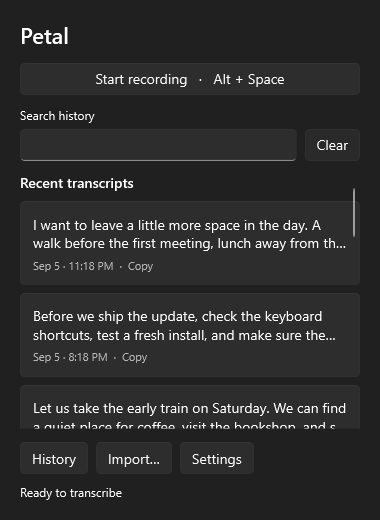
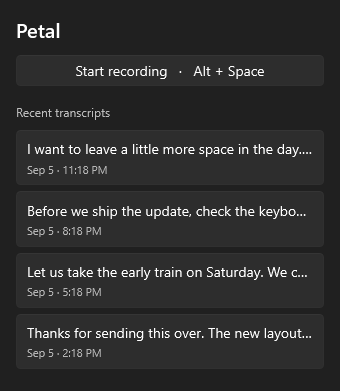
Simplify tray panel and center empty history

diff --git a/src/Petal.Windows/TrayPalette.cs b/src/Petal.Windows/TrayPalette.cs
@@ -1,7 +1,6 @@
 using System.Windows;
 using System.Windows.Controls;
 using System.Windows.Input;
-using System.Windows.Media;
 using System.Windows.Shell;
 
 namespace Petal.Windows;
@@ -12,69 +11,71 @@ internal sealed class TrayPalette : Window
     IntPtr target;
     internal IntPtr RecordingTarget => target;
     readonly StackPanel results = new();
-    readonly TextBox search = new() { Margin = new Thickness(0, 16, 0, 12) };
     readonly Button record = new() { HorizontalAlignment = HorizontalAlignment.Stretch };
-    readonly TextBlock feedback = new() { FontSize = 12, Margin = new Thickness(0, 10, 0, 0) };
+
     public TrayPalette(AppController app)
     {
         this.app = app;
-        Title = "Petal palette"; Width = 380; Height = 520; WindowStyle = WindowStyle.None;
-        ResizeMode = ResizeMode.NoResize; ShowInTaskbar = false; Topmost = true;
+        Title = "Petal palette"; Width = 340; SizeToContent = SizeToContent.Height;
+        WindowStyle = WindowStyle.None; ResizeMode = ResizeMode.NoResize;
+        ShowInTaskbar = false; Topmost = true;
         WindowChrome.SetWindowChrome(this, new WindowChrome { CaptionHeight = 0, ResizeBorderThickness = new Thickness(0), GlassFrameThickness = new Thickness(-1) });
-        var root = new Grid { Margin = new Thickness(20) };
-        root.RowDefinitions.Add(new RowDefinition { Height = GridLength.Auto }); root.RowDefinitions.Add(new RowDefinition()); root.RowDefinitions.Add(new RowDefinition { Height = GridLength.Auto });
-        var header = new StackPanel();
-        header.Children.Add(new TextBlock { Text = "Petal", FontSize = 22, FontWeight = FontWeights.SemiBold, Margin = new Thickness(0, 0, 0, 14) });
-        record.Click += (_, _) => { Hide(); _ = app.ToggleRecording(target); }; header.Children.Add(record);
-        search.ToolTip = "Search transcripts"; System.Windows.Automation.AutomationProperties.SetName(search, "Search transcripts");
-        header.Children.Add(new TextBlock { Text = "Search history", FontSize = 12, Margin = new Thickness(0, 12, 0, 0) });
-        search.Margin = new Thickness(0, 6, 0, 12);
-        var searchRow = new DockPanel(); var clear = new Button { Content = "Clear", Margin = new Thickness(8, 6, 0, 12), IsEnabled = false };
-        clear.Click += (_, _) => { search.Clear(); search.Focus(); }; search.TextChanged += (_, _) => clear.IsEnabled = search.Text.Length > 0;
-        DockPanel.SetDock(clear, Dock.Right); searchRow.Children.Add(clear); searchRow.Children.Add(search); header.Children.Add(searchRow); root.Children.Add(header);
-        var scroll = new ScrollViewer { Content = results, VerticalScrollBarVisibility = ScrollBarVisibility.Auto }; Grid.SetRow(scroll, 1); root.Children.Add(scroll);
-        var footer = new StackPanel { Margin = new Thickness(0, 14, 0, 0) };
-        var actions = new StackPanel { Orientation = Orientation.Horizontal };
-        void Add(string label, Action action) { var b = new Button { Content = label, Margin = new Thickness(0, 0, 8, 0) }; b.Click += (_, _) => { Hide(); action(); }; actions.Children.Add(b); }
-        Add("History", () => app.ShowSettings("History")); Add("Import…", app.ImportFile); Add("Settings", () => app.ShowSettings());
-        footer.Children.Add(actions); footer.Children.Add(feedback); Grid.SetRow(footer, 2); root.Children.Add(footer); Content = root;
+        var root = new StackPanel();
+        root.Children.Add(new TextBlock { Text = "Petal", FontSize = 20, FontWeight = FontWeights.SemiBold, Margin = new Thickness(0, 0, 0, 12) });
+        record.Click += (_, _) => { Hide(); _ = app.ToggleRecording(target); };
+        root.Children.Add(record);
+        root.Children.Add(new TextBlock { Text = "Recent transcripts", FontSize = 12, Margin = new Thickness(0, 18, 0, 10), Opacity = .7 });
+        root.Children.Add(results);
+        Content = new Border { Padding = new Thickness(16), Child = root };
         SetResourceReference(BackgroundProperty, "SolidBackgroundFillColorBaseBrush");
         SourceInitialized += (_, _) => Native.Acrylic(this);
         Deactivated += (_, _) => Hide();
         PreviewKeyDown += (_, e) => { if (e.Key == Key.Escape) { Hide(); e.Handled = true; } };
-        search.TextChanged += (_, _) => Refresh();
-        app.Changed += () => { if (IsVisible) Refresh(); };
+        app.Changed += () => { if (IsVisible) { Refresh(); PositionNearTray(); } };
     }
+
     void Refresh()
     {
         record.Content = (app.Phase == "recording" ? "Finish recording" : "Start recording") + "   ·   " + app.Storage.Preferences.Shortcut;
         record.IsEnabled = !app.Busy || app.Phase == "recording";
-        feedback.Text = app.Status; results.Children.Clear();
-        var matches = app.Storage.History.Where(x => Petal.Core.TranscriptSearch.Matches(x, search.Text)).ToList();
-        var entries = matches.Take(20).ToList();
-        results.Children.Add(new TextBlock { Text = string.IsNullOrWhiteSpace(search.Text) ? "Recent transcripts" : $"{matches.Count} results" + (matches.Count > 20 ? " (first 20 shown)" : ""), FontWeight = FontWeights.SemiBold, Margin = new Thickness(0, 0, 0, 10) });
-        if (entries.Count == 0) results.Children.Add(new TextBlock { Text = string.IsNullOrWhiteSpace(search.Text) ? "No recordings yet." : "No matches. Try fewer words.", Margin = new Thickness(0, 16, 0, 16) });
+        results.Children.Clear();
+        var entries = app.Storage.History.OrderByDescending(x => x.Timestamp).Take(4).ToList();
+        if (entries.Count == 0)
+            results.Children.Add(new TextBlock { Text = "No recordings yet", HorizontalAlignment = HorizontalAlignment.Center, Margin = new Thickness(0, 24, 0, 28), Opacity = .7 });
         foreach (var entry in entries)
         {
             var content = new StackPanel();
-            content.Children.Add(new TextBlock { Text = entry.Text, MaxHeight = 42, TextTrimming = TextTrimming.CharacterEllipsis });
-            content.Children.Add(new TextBlock { Text = entry.Timestamp.ToLocalTime().ToString("MMM d · h:mm tt") + "  ·  Copy", FontSize = 11, Margin = new Thickness(0, 6, 0, 0), Opacity = .65 });
-            var button = new Button { Content = content, HorizontalAlignment = HorizontalAlignment.Stretch, HorizontalContentAlignment = HorizontalAlignment.Stretch, Margin = new Thickness(0, 0, 0, 8), Padding = new Thickness(12) };
+            content.Children.Add(new TextBlock { Text = entry.Text.ReplaceLineEndings(" "), TextTrimming = TextTrimming.CharacterEllipsis, TextWrapping = TextWrapping.NoWrap });
+            var caption = new TextBlock { Text = entry.Timestamp.ToLocalTime().ToString("MMM d · h:mm tt"), FontSize = 11, Margin = new Thickness(0, 4, 0, 0), Opacity = .65 };
+            content.Children.Add(caption);
+            var button = new Button { Content = content, ToolTip = "Copy transcript", HorizontalAlignment = HorizontalAlignment.Stretch, HorizontalContentAlignment = HorizontalAlignment.Stretch, Margin = new Thickness(0, 0, 0, 6), Padding = new Thickness(10, 8, 10, 8) };
             System.Windows.Automation.AutomationProperties.SetName(button, "Copy transcript: " + entry.Text);
-            button.Click += (_, _) => app.Copy(entry.Text); results.Children.Add(button);
+            button.Click += (_, _) => { app.Copy(entry.Text); Hide(); };
+            results.Children.Add(button);
         }
     }
+
+    void PositionNearTray()
+    {
+        UpdateLayout();
+        var area = SystemParameters.WorkArea;
+        Left = area.Right - ActualWidth - 12;
+        Top = area.Bottom - ActualHeight - 12;
+    }
+
     public void Open()
     {
-        target = Native.GetForegroundWindow(); Refresh(); var area = SystemParameters.WorkArea; Left = area.Right - Width - 12; Top = area.Bottom - Height - 12;
-        Show(); Activate(); search.Focus();
+        target = Native.GetForegroundWindow(); Refresh();
+        Show(); PositionNearTray(); Activate(); record.Focus();
     }
+
     internal void Capture(string directory)
     {
         Refresh(); Show(); UpdateLayout();
-        SettingsWindow.Capture((FrameworkElement)Content, System.IO.Path.Combine(directory, "tray-palette.png"), 380, 520);
-        search.Text = "__petal_no_matching_transcript__";
-        if (results.Children.OfType<Button>().Any()) throw new InvalidOperationException("Palette search failed to filter transcripts.");
-        search.Clear(); Hide();
+        if (results.Children.OfType<Button>().Count() != Math.Min(4, app.Storage.History.Count))
+            throw new InvalidOperationException("Palette must show at most four recent transcripts.");
+        var root = (FrameworkElement)Content;
+        SettingsWindow.Capture(root, System.IO.Path.Combine(directory, "tray-palette.png"), (int)root.ActualWidth, (int)root.ActualHeight);
+        Hide();
     }
 }

diff --git a/src/Petal.Windows/SettingsWindow.cs b/src/Petal.Windows/SettingsWindow.cs
@@ -31,6 +31,9 @@ public sealed class SettingsWindow : Window
     ListBox? historyList;
     TextBox? searchBox;
     StackPanel? historyDetail;
+    Grid? historySplit;
+    FrameworkElement? historySearch;
+    StackPanel? historyEmpty;
     Button? playbackButton;
     readonly System.Windows.Threading.DispatcherTimer playbackTimer = new() { Interval = TimeSpan.FromMilliseconds(250) };
     Slider? playbackPosition;
@@ -221,6 +224,7 @@ public sealed class SettingsWindow : Window
         search.PreviewKeyDown += (_, e) => { if (e.Key == System.Windows.Input.Key.Escape) { search.Clear(); e.Handled = true; } };
         searchRow.Children.Add(search); layout.Children.Add(searchRow);
         var split = new Grid(); split.ColumnDefinitions.Add(new ColumnDefinition { Width = new GridLength(224) }); split.ColumnDefinitions.Add(new ColumnDefinition { Width = new GridLength(12) }); split.ColumnDefinitions.Add(new ColumnDefinition());
+        historySplit = split; historySearch = searchRow;
         historyList = new ListBox { BorderThickness = new Thickness(0), Background = Brushes.Transparent, HorizontalContentAlignment = HorizontalAlignment.Stretch, Margin = new Thickness(5), Padding = new Thickness(0) };
         historyList.SelectionChanged += (_, _) => { if (!filteringHistory) ShowTranscript((historyList.SelectedItem as ListBoxItem)?.Tag as Transcript); };
         split.Children.Add(Surface(historyList));
@@ -228,6 +232,8 @@ public sealed class SettingsWindow : Window
         var detailScroll = new ScrollViewer { Content = historyDetail, VerticalScrollBarVisibility = ScrollBarVisibility.Auto, HorizontalScrollBarVisibility = ScrollBarVisibility.Disabled };
         var detailBorder = Surface(detailScroll); Grid.SetColumn(detailBorder, 2); split.Children.Add(detailBorder);
         Grid.SetRow(split, 1); layout.Children.Add(split); pageHost.Content = layout;
+        historyEmpty = new StackPanel { HorizontalAlignment = HorizontalAlignment.Center, VerticalAlignment = VerticalAlignment.Center, Visibility = Visibility.Collapsed };
+        Grid.SetRow(historyEmpty, 1); layout.Children.Add(historyEmpty);
         search.TextChanged += (_, _) => { historyQuery = search.Text; clear.IsEnabled = search.Text.Length > 0; searchDelay.Stop(); searchDelay.Start(); }; clear.IsEnabled = search.Text.Length > 0;
         searchBox = search; PopulateHistory();
     }
@@ -248,6 +254,22 @@ public sealed class SettingsWindow : Window
         if (historyList.SelectedItem == null && historyList.Items.Count > 0) historyList.SelectedIndex = 0;
         filteringHistory = false;
         var next = (historyList.SelectedItem as ListBoxItem)?.Tag as Transcript;
+        bool empty = historyList.Items.Count == 0;
+        historySplit!.Visibility = empty ? Visibility.Collapsed : Visibility.Visible;
+        historySearch!.Visibility = app.Storage.History.Count == 0 ? Visibility.Collapsed : Visibility.Visible;
+        historyEmpty!.Visibility = empty ? Visibility.Visible : Visibility.Collapsed;
+        historyEmpty.Children.Clear();
+        if (empty)
+        {
+            bool noRecordings = app.Storage.History.Count == 0;
+            var icon = Icons.Image(noRecordings ? "audio-lines" : "search", 36, WindowsTheme.Secondary);
+            icon.HorizontalAlignment = HorizontalAlignment.Center; icon.Margin = new Thickness(0, 0, 0, 14);
+            historyEmpty.Children.Add(icon);
+            var title = Text(noRecordings ? "No recordings yet" : "No matching recordings", 18);
+            title.TextAlignment = TextAlignment.Center; historyEmpty.Children.Add(title);
+            var hint = Text(noRecordings ? "Your recordings will appear here." : "Try fewer words or clear the search.", 12, "secondary");
+            hint.TextAlignment = TextAlignment.Center; hint.Margin = new Thickness(0, 6, 0, 0); historyEmpty.Children.Add(hint);
+        }
         if (next?.Id != selected?.Id || next == null) ShowTranscript(next);
     }
     ContextMenu TranscriptMenu(Transcript item)
@@ -270,12 +292,7 @@ public sealed class SettingsWindow : Window
     void ShowTranscript(Transcript? item)
     {
         StopPlayback(); if (historyDetail == null) return; historyDetail.Children.Clear();
-        if (item == null)
-        {
-            var icon = Icons.Image(historyQuery.Length == 0 ? "audio-lines" : "search", 36, WindowsTheme.Secondary); icon.Margin = new Thickness(0, 70, 0, 14); historyDetail.Children.Add(icon);
-            historyDetail.Children.Add(Text(historyQuery.Length == 0 ? "No recordings yet" : "No matching recordings", 18));
-            historyDetail.Children.Add(Text(string.IsNullOrWhiteSpace(historyQuery) ? "Your recordings will appear here." : "Try fewer words or clear the search.", 12, "secondary")); return;
-        }
+        if (item == null) return;
         var toolbar = new DockPanel { Margin = new Thickness(0, 0, 0, 12) };
         var more = ActionButton("More", () => { }); more.ContextMenu = TranscriptMenu(item); more.Click += (_, _) => { more.ContextMenu = TranscriptMenu(item); more.ContextMenu.PlacementTarget = more; more.ContextMenu.Placement = PlacementMode.Bottom; more.ContextMenu.IsOpen = true; }; DockPanel.SetDock(more, Dock.Right); toolbar.Children.Add(more);
         var copy = ActionButton("Copy", () => app.Copy(item.Text)); copy.Margin = new Thickness(0, 0, 8, 0); DockPanel.SetDock(copy, Dock.Right); toolbar.Children.Add(copy);
@@ -392,6 +409,27 @@ public sealed class SettingsWindow : Window
         File.WriteAllLines(Path.Combine(directory, "theme.txt"), new[] { "High contrast: " + SystemParameters.HighContrast, "System window: " + SystemColors.WindowBrush, "System text: " + SystemColors.WindowTextBrush }.Concat(new[] { "CardBackgroundFillColorDefaultBrush", "CardStrokeColorDefaultBrush", "TextFillColorPrimaryBrush", "TextFillColorSecondaryBrush", "SolidBackgroundFillColorBaseBrush", "ControlFillColorDefaultBrush" }.Select(key => key + ": " + TryFindResource(key))));
         foreach (var name in pages) { SelectPage(name); await Task.Delay(180); UpdateLayout(); Capture((FrameworkElement)Content, Path.Combine(directory, name.ToLowerInvariant() + ".png"), (int)((FrameworkElement)Content).ActualWidth, (int)((FrameworkElement)Content).ActualHeight); }
         SelectPage("History");
+        void CheckEmptyHistory()
+        {
+            UpdateLayout();
+            if (historySplit!.Visibility != Visibility.Collapsed || historyEmpty!.Visibility != Visibility.Visible)
+                throw new InvalidOperationException("Empty history must hide the transcript panes.");
+            var parent = (FrameworkElement)historyEmpty.Parent;
+            var position = historyEmpty.TranslatePoint(new Point(0, 0), parent);
+            double top = historySearch!.Visibility == Visibility.Collapsed ? 0 : historySearch.ActualHeight;
+            if (Math.Abs(position.X + historyEmpty.ActualWidth / 2 - parent.ActualWidth / 2) > 1 ||
+                Math.Abs(position.Y + historyEmpty.ActualHeight / 2 - (top + parent.ActualHeight) / 2) > 1)
+                throw new InvalidOperationException("Empty history must be centered in its available space.");
+        }
+        if (app.Storage.History.Count == 0) CheckEmptyHistory();
+        else
+        {
+            var savedQuery = historyQuery;
+            historyQuery = "__petal_no_matching_transcript__"; PopulateHistory(); CheckEmptyHistory();
+            Capture((FrameworkElement)Content, Path.Combine(directory, "history-no-matches.png"), (int)((FrameworkElement)Content).ActualWidth, (int)((FrameworkElement)Content).ActualHeight);
+            historyQuery = savedQuery; PopulateHistory();
+            if (historySplit!.Visibility != Visibility.Visible) throw new InvalidOperationException("History panes did not return after clearing search.");
+        }
         var selected = (historyList?.SelectedItem as ListBoxItem)?.Tag as Transcript;
         if (selected != null) { var historyMenu = TranscriptMenu(selected); historyMenu.PlacementTarget = this; historyMenu.IsOpen = true; await Task.Delay(100); Capture(historyMenu, Path.Combine(directory, "history-menu.png"), (int)historyMenu.ActualWidth, (int)historyMenu.ActualHeight); historyMenu.IsOpen = false; }
         var menu = new TrayMenu(app).Build(); menu.IsOpen = true; await Task.Delay(100); Capture(menu, Path.Combine(directory, "tray-menu.png"), (int)menu.ActualWidth, (int)menu.ActualHeight); menu.IsOpen = false;
